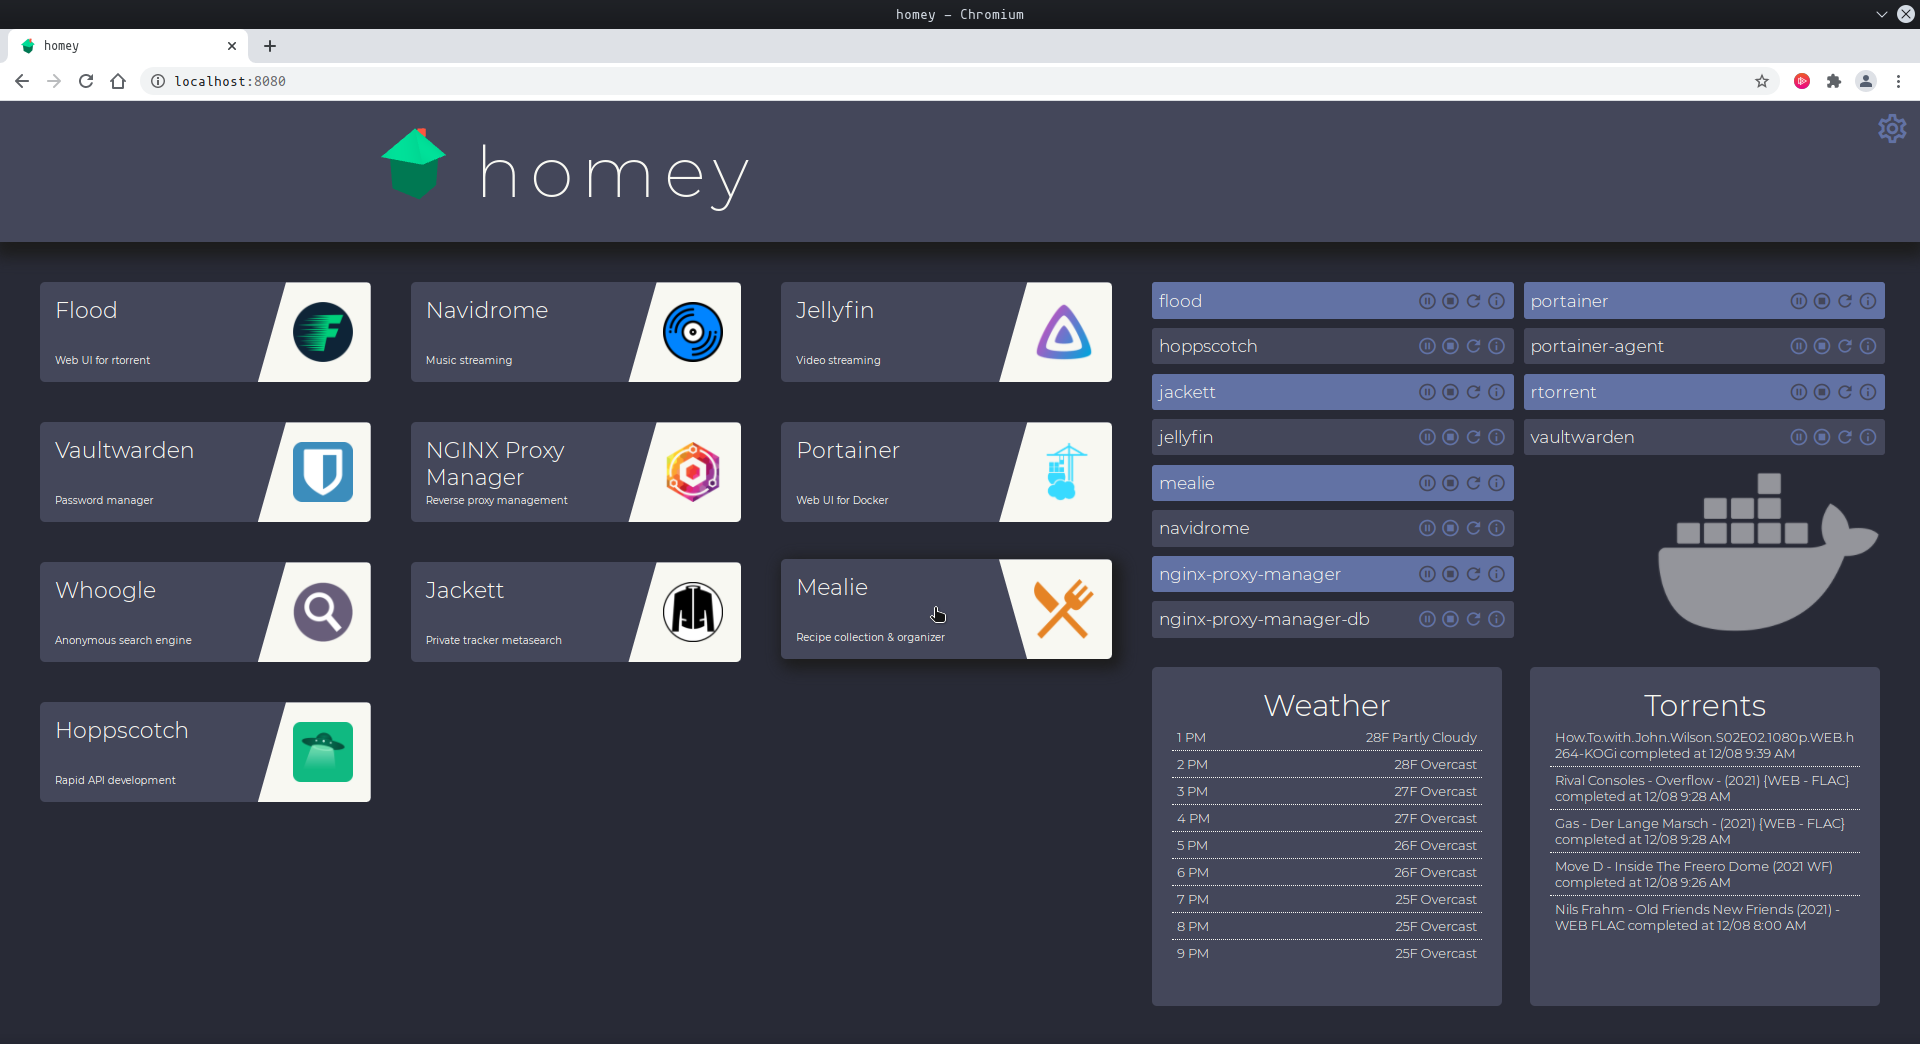
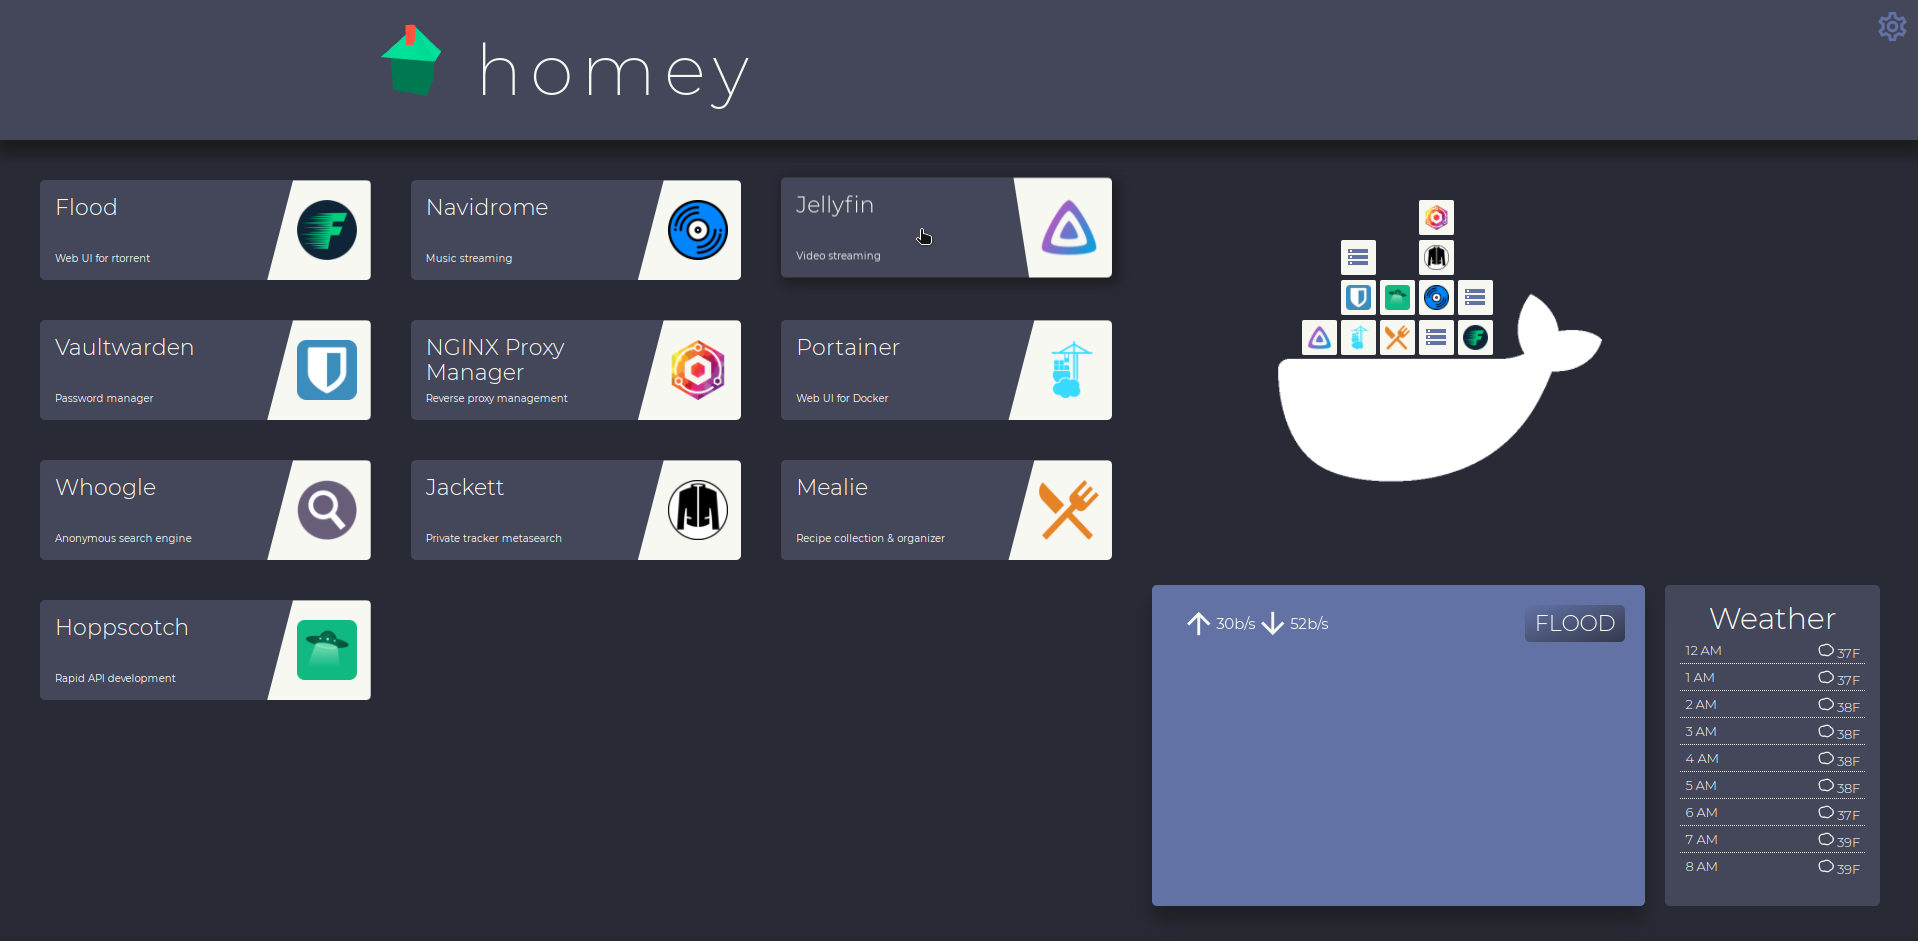
new screenshot

diff --git a/public/css/style.css b/public/css/style.css
@@ -169,17 +169,6 @@ h2 {
   .flood-card-container:hover .flood-card-container__side--back {
     transform: rotateY(0deg);
     box-shadow: 0.5rem 2.5rem 4rem rgba(28, 28, 28, 0.8); }
-  .flood-card-container__punchline {
-    margin: 0 auto;
-    padding: 2rem;
-    padding-top: 20%;
-    text-align: center; }
-  .flood-card-container__picture {
-    background-size: cover;
-    height: 40%;
-    background-blend-mode: screen;
-    clip-path: polygon(0 0, 100% 0, 100% 100%, 0% 85%);
-    background-image: url(./images/docker-large-text.png); }
   .flood-card-container__heading {
     width: 90%;
     position: absolute;
@@ -297,9 +286,9 @@ h2 {
   row-gap: .5rem;
   column-gap: .4rem;
   background-image: url("../images/docker-large-blank.png");
-  background-size: 60%;
+  background-size: 45%;
   background-repeat: no-repeat;
-  background-position: bottom 7rem right 70%; }
+  background-position: bottom 34.5% right 66%; }
 
 .docker-cell {
   background-color: #f8f8f2;
@@ -352,25 +341,6 @@ h2 {
     .docker-cell:hover .docker-cell__content {
       opacity: 1;
       transition-delay: 0s; }
-
-.docker-card-container {
-  padding: .75rem;
-  align-self: center;
-  height: 2rem;
-  width: 2rem;
-  border-radius: .5rem;
-  background-color: #6272a4;
-  display: flex;
-  justify-content: space-between;
-  align-content: center; }
-  .docker-card-container h3 {
-    align-self: center;
-    font-size: 1.7rem;
-    font-weight: 300; }
-  .docker-card-container__button-container {
-    display: flex;
-    align-content: center;
-    justify-content: center; }
 
 .docker-card-btn {
   color: #6272a4;

diff --git a/src/components/FloodCard.vue b/src/components/FloodCard.vue
@@ -3,18 +3,14 @@
     <!-- <h3 style="text-align: center">{{floodStats.downSpeed}} Up | {{floodStats.upSpeed}} Down</h3> -->
     <!-- <div v-for="n in this.notifications" :key="n.time" class="weatherElement" >{{n.msg}} completed at {{n.time}}</div> -->
       <div class="flood-card-container__side flood-card-container__side--front">
-          <div class="flood-card-container__picture flood-card-container__picture--weather">
-              &nbsp;
-          </div>
           <div class="flood-card-container__heading">
             <div class="flood-card-container__heading--stats">
               <span class="material-icons-outlined">arrow_upward</span><p>{{floodStats.upSpeed}}</p>
               <span class="material-icons-outlined">arrow_downward</span><p>{{floodStats.downSpeed}}</p>
             </div>
-            <span class="flood-card-container__heading--title">Flood</span>
+            <span class="flood-card-container__heading--title">Torrents</span>
           </div>
           <div class="flood-card-container__details">
-              <div class="flood-card-container__details--message"></div>
               <!-- chart goes here -->
           </div>
       </div>
@@ -44,7 +40,7 @@ export default {
   methods: {
     getFloodData: function() {
         this.axios.get('http://0.0.0.0:9101/floodNotifications').then((res) => {
-          this.notifications = res.data.slice(0,5)
+          this.notifications = res.data.slice(0,6)
       }).then(() => {
       this.axios.get('http://0.0.0.0:9101/floodStats').then((res) => {
           this.floodStats = res.data

diff --git a/sass/_docker.scss b/sass/_docker.scss
@@ -18,9 +18,9 @@
 
     // Background image
     background-image: url('../images/docker-large-blank.png');
-    background-size: 60%;
+    background-size: 45%;
     background-repeat: no-repeat;
-    background-position: bottom 7rem right 70%;
+    background-position: bottom 34.5% right 66%;
 }
 
 .docker-cell{
@@ -104,37 +104,6 @@
         //     opacity: 0;
         //     transition-delay: 0s;
         // }
-    }
-}
-
-// DEPRECATED!
-.docker-card-container {
-    // Spacing
-    padding: .75rem;
-    align-self: center;
-
-    height: 2rem;
-    width: 2rem;
-
-    border-radius: .5rem;
-    background-color: $commentColor;
-
-    // Child layout
-    display: flex;
-    justify-content: space-between;
-    align-content: center;
-
-    // Container name
-    & h3 { 
-        align-self: center;
-        font-size: 1.7rem;
-        font-weight: 300;
-    }
-
-    &__button-container {
-        display: flex;
-        align-content: center;
-        justify-content: center;
     }
 }
 

diff --git a/sass/_cards.scss b/sass/_cards.scss
@@ -83,23 +83,7 @@
         box-shadow: .5rem 2.5rem 4rem rgba($shadowColor, 0.8);
     }
 
-    // Back
-    &__punchline {
-        margin: 0 auto;
-        padding: 2rem;
-        padding-top: 20%;
-        text-align: center;
-    }
-
     // Front
-    &__picture {
-        background-size: cover;
-        height: 40%;
-        background-blend-mode: screen;
-        clip-path: polygon(0 0, 100% 0, 100% 100%, 0% 85%);
-        background-image: url(./images/docker-large-text.png);
-    }
-
     &__heading {
         width: 90%;
         position: absolute;
@@ -144,6 +128,7 @@
         
     }
 
+    // Back
     &__notifications {
         ul {
             list-style: none;

diff --git a/src/components/DockerContainer.vue b/src/components/DockerContainer.vue
@@ -29,7 +29,8 @@ export default {
     loadContainerList: function() {
         this.axios.get('http://0.0.0.0:9101/' + this.backend + 'List').then((res) => {
           // Sort by service name
-          this.dockerServices = res.data.sort((a,b) => (a.name > b.name) ? 1 : ((b.name > a.name) ? -1 : 0))
+          //this.dockerServices = res.data.sort((a,b) => (a.name > b.name) ? 1 : ((b.name > a.name) ? -1 : 0))
+          this.dockerServices = res.data;
       }).catch(e => {
         console.log('Could not reach homey API');
       });
